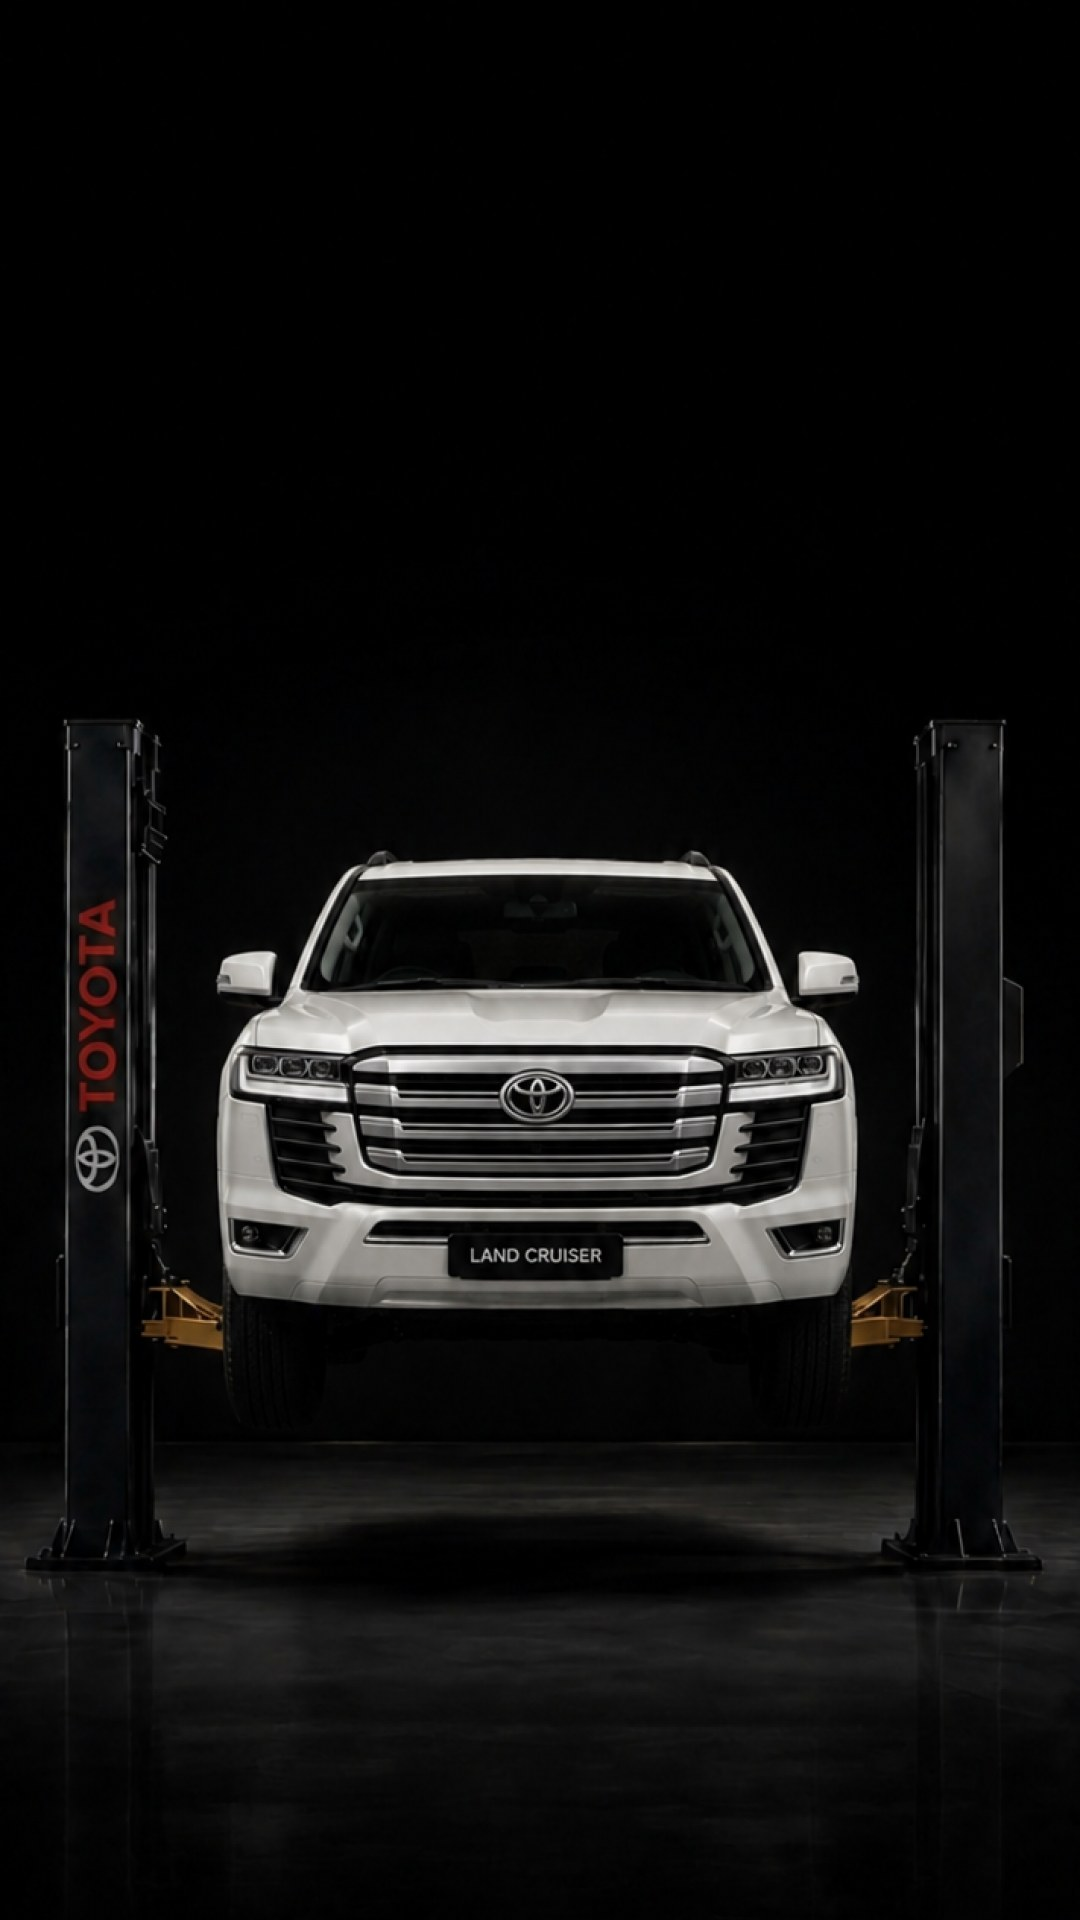
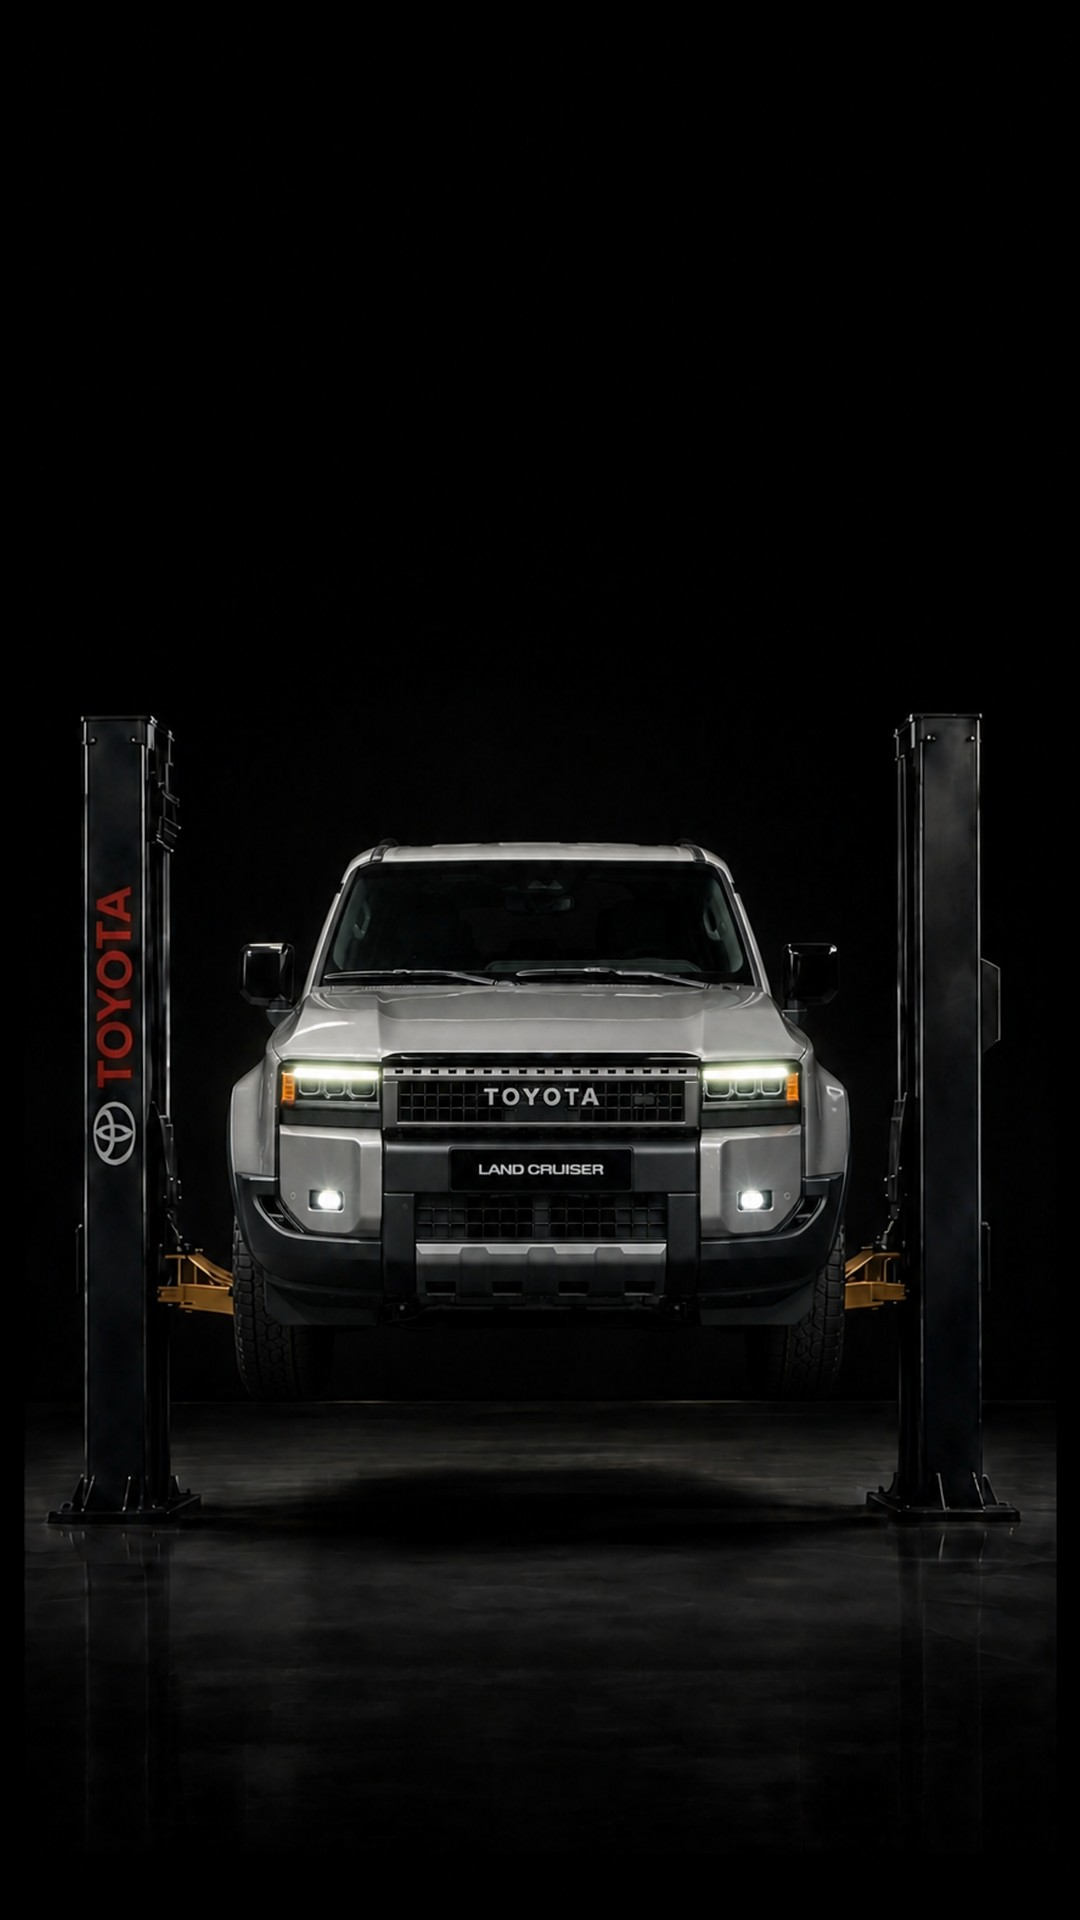
feat: new invitation shots, optional patronymic, exit to the team screen
Certificate shots are taken from mockups 34:2516, 34:2467 and 34:2564: for
Lexus and the Land Cruiser the car stands larger and lower, the oil change got
a new shot with a barista. Plate frames are recomputed for the new shots, the
brandless shot is rebuilt from a fresh Lexus with the badges erased.

The patronymic is no longer required: the first name is enough. On the
invitation a single name stays on one line (34:2612), while the "Ваше имя"
placeholder is split by words as drawn in 34:2566.

In the issuing modal the extra outline around the preview is removed - the
invitation has its own frame inside the shot. The "Диагностика ходовой части"
caption is wrapped manually, and two lines are reserved under the captions: the
pair of cards no longer drifts apart in height.

A click on a messenger takes the guest to the car team screen. The screen
learned to open for an already issued request - it used to require phone
confirmation, which the current funnel does not have.

Changed region(s): [[0.0, 0.375, 0.9472, 0.8438], [0.1222, 0.75, 1.0, 0.875], [0.825, 0.8438, 0.8556, 0.875]]

diff --git a/src/views/ticket/TicketScreen.tsx b/src/views/ticket/TicketScreen.tsx
@@ -27,8 +27,16 @@ type Phase = 'loading' | 'ready' | 'error'
 export function TicketScreen() {
   const router = useRouter()
   const { go } = useStageTransition()
+  // Пригласительные выписывает шаг личных данных, и оттуда гость приходит сюда
+  // уже с готовой заявкой. Старый путь с подтверждением телефона тоже работает:
+  // тогда сертификат оформляется прямо здесь.
   const show = useFunnelGuard(
-    (d) => Boolean(d.applicationId && d.fullName && d.phone && d.phoneVerificationToken),
+    (d) =>
+      Boolean(
+        d.applicationId &&
+          d.fullName &&
+          (d.certificateCode || (d.phone && d.phoneVerificationToken)),
+      ),
     '/personal',
   )
   const { data, sessionId, update, track } = useFunnel()
@@ -40,9 +48,13 @@ export function TicketScreen() {
   const [modalOpen, setModalOpen] = useState(false)
   const assetsReady = useSceneAssets(TICKET_ASSETS)
 
+  // Заявка уже завершена: сертификат оформлять нечего, экран собирается по
+  // данным воронки. Показываем его сразу, без запроса.
+  const completed = Boolean(data.certificateCode)
+
   // идемпотентно создаём сертификат
   useEffect(() => {
-    if (!show || !data.applicationId) return
+    if (!show || !data.applicationId || completed) return
     // стартовое состояние и так 'loading': лишний сброс только плодит рендеры
     let active = true
     completeApplication(data.applicationId, sessionId, data.phoneVerificationToken ?? '')
@@ -66,7 +78,11 @@ export function TicketScreen() {
       active = false
     }
     // eslint-disable-next-line react-hooks/exhaustive-deps
-  }, [show, data.applicationId])
+  }, [show, data.applicationId, completed])
+
+  useEffect(() => {
+    if (show && completed) setPhase('ready')
+  }, [show, completed])
 
   // Данные для персональных сертификатов. Сессию заводим заранее, пока человек
   // рассматривает экран: к моменту открытия модалки картинки уже готовы.
@@ -133,15 +149,15 @@ export function TicketScreen() {
         </div>
       )}
 
-      {phase === 'ready' && result && assetsReady && (
+      {phase === 'ready' && assetsReady && (
         <div className={styles.reveal}>
           <TicketCard
-            fullName={result.application.fullName ?? data.fullName ?? ''}
-            brand={result.application.carBrand ?? data.carBrand ?? ''}
-            model={result.application.carModel ?? data.carModel ?? ''}
-            year={result.application.carYear ?? data.carYear ?? null}
-            plate={result.application.plateNumber ?? data.plateNumber ?? ''}
-            amount={result.certificate.amount}
+            fullName={result?.application.fullName ?? data.fullName ?? ''}
+            brand={result?.application.carBrand ?? data.carBrand ?? ''}
+            model={result?.application.carModel ?? data.carModel ?? ''}
+            year={result?.application.carYear ?? data.carYear ?? null}
+            plate={result?.application.plateNumber ?? data.plateNumber ?? ''}
+            amount={result?.certificate.amount ?? data.certificateAmount ?? 1500}
             onMeet={() => {
               track('outbound_click', { id: 'meet_team' })
               go('/links')

diff --git a/src/views/contact/ContactScreen.tsx b/src/views/contact/ContactScreen.tsx
@@ -11,6 +11,7 @@ import {
 import { useScreenView } from '@/shared/analytics'
 import { useFunnel, useFunnelGuard } from '@/shared/lib/funnel'
 import { useSceneAssets } from '@/shared/lib/useSceneAssets'
+import { useStageTransition } from '@/widgets/curtain-transition'
 import { Button, Checkbox, Loader } from '@/shared/ui'
 import { validateFullName } from '@/lib/validation'
 import { CertificatesModal } from '@/invite-test/ui/CertificatesModal'
@@ -28,6 +29,7 @@ const CONTACT_ASSETS = [
 export function ContactScreen() {
   const show = useFunnelGuard((d) => Boolean(d.applicationId && d.carBrand), '/car-number')
   const { data, sessionId, update, track } = useFunnel()
+  const { go } = useStageTransition()
   useScreenView('personal')
 
   const savedName = (data.fullName ?? '').trim().split(/\s+/)
@@ -58,8 +60,9 @@ export function ContactScreen() {
 
   const submitName = async () => {
     const next: Record<string, string> = {}
-    const name = validateFullName(`${firstName} ${patronymic}`)
-    if (!name) next.fullName = 'Укажите имя и отчество, только буквы'
+    // Отчество необязательно: достаточно имени.
+    const name = validateFullName(`${firstName} ${patronymic}`.trim())
+    if (!name) next.fullName = 'Укажите имя, только буквы'
     if (!consent) next.consent = 'Нужно согласие на обработку персональных данных'
     setErrors(next)
     if (Object.keys(next).length > 0) return
@@ -121,7 +124,7 @@ export function ContactScreen() {
               />
             </label>
             <label className={styles.field}>
-              <span>Отчество</span>
+              <span>Отчество <i>по желанию</i></span>
               <input
                 placeholder="Иванович"
                 maxLength={30}
@@ -191,6 +194,13 @@ export function ContactScreen() {
           carTitle={[data.carBrand, data.carModel].filter(Boolean).join(' ')}
           plate={data.plateNumber}
           amount={data.certificateAmount ?? 1500}
+          // Пригласительные гость забирает в мессенджере, а на сайте идёт
+          // дальше — знакомиться с командой автомобиля. Переход делаем сразу по
+          // клику, чтобы, вернувшись из чата, он попал уже на этот экран.
+          onSent={(channel) => {
+            track('outbound_click', { id: `messenger_${channel}` })
+            go('/certificate')
+          }}
         />
       )}
     </main>

diff --git a/src/widgets/certificate-sheet/layout.ts b/src/widgets/certificate-sheet/layout.ts
@@ -58,7 +58,7 @@ export function certificateFace(kind: CertificateKind, brand: string): Certifica
       photoRaster: 'images/cert/bg-diagnostics-toyota.jpg',
       address: DIAGNOSTICS_ADDRESS,
       // на кадре Land Cruiser вместо номера шильд: рамка ниже и чуть уже
-      plate: { x: 448 / 1080, y: 1236 / 1920, w: 171 / 1080 },
+      plate: { x: 451 / 1080, y: 1148 / 1920, w: 182 / 1080 },
     }
   }
   if (isLexus(brand)) {
@@ -66,7 +66,7 @@ export function certificateFace(kind: CertificateKind, brand: string): Certifica
       photo: '/images/cert/bg-diagnostics-lexus.webp',
       photoRaster: 'images/cert/bg-diagnostics-lexus.jpg',
       address: DIAGNOSTICS_ADDRESS,
-      plate: { x: 439 / 1080, y: 1162 / 1920, w: 197 / 1080 },
+      plate: { x: 440 / 1080, y: 1163 / 1920, w: 195 / 1080 },
     }
   }
   // Кадр без марки: тот же автомобиль на подъёмнике, что и у остальных, но с
@@ -76,7 +76,7 @@ export function certificateFace(kind: CertificateKind, brand: string): Certifica
     photo: '/images/cert/bg-diagnostics-default.webp',
     photoRaster: 'images/cert/bg-diagnostics-default.jpg',
     address: DIAGNOSTICS_ADDRESS,
-    plate: { x: 439 / 1080, y: 1162 / 1920, w: 197 / 1080 },
+    plate: { x: 440 / 1080, y: 1163 / 1920, w: 195 / 1080 },
   }
 }
 
@@ -136,13 +136,14 @@ export function certificateCopy(kind: CertificateKind, amount: number): Certific
 }
 
 /**
- * Имя и отчество ставятся в две строки, как в макете. Короткая подпись
- * («Ваше имя») остаётся одной строкой: в две она выглядит как обрывок.
+ * Имя и отчество ставятся в две строки, как в макете (34:2516). Отчество не
+ * обязательно: одно имя остаётся одной строкой (34:2612), а подпись-заглушка
+ * «Ваше имя» разбивается по словам, как её нарисовали в 34:2566.
  */
 export function splitGuestName(name: string): string[] {
   const words = name.trim().split(/\s+/).filter(Boolean)
-  const whole = words.join(' ')
-  if (words.length < 2 || whole.length <= 13) return [whole || 'Ваше имя']
+  if (words.length === 0) return ['Ваше', 'имя']
+  if (words.length === 1) return [words[0]!]
   return [words[0]!, words.slice(1).join(' ')]
 }
 

diff --git a/src/invite-test/ui/CertificatesModal/CertificatesModal.tsx b/src/invite-test/ui/CertificatesModal/CertificatesModal.tsx
@@ -1,6 +1,6 @@
 'use client'
 
-import { useEffect, useState } from 'react'
+import { useEffect, useState, type ReactNode } from 'react'
 
 import { CertificateSheet, CertificateViewer, type CertificateKind } from '@/widgets/certificate-sheet'
 
@@ -33,9 +33,24 @@ interface CertificatesModalProps {
   onSent?: (channel: Channel) => void
 }
 
-const CARDS: { kind: CertificateKind; label: string }[] = [
-  { kind: 'diagnostics', label: 'Диагностика ходовой части' },
-  { kind: 'gift', label: 'Замена масла' },
+/**
+ * Подписи под превью. Перенос проставлен вручную: у диагностики строка длиннее
+ * карточки, и автоперенос ронял «части» третьей строкой — от этого пара
+ * пригласительных вставала на разной высоте.
+ */
+const CARDS: { kind: CertificateKind; label: ReactNode; title: string }[] = [
+  {
+    kind: 'diagnostics',
+    label: (
+      <>
+        Диагностика
+        <br />
+        ходовой части
+      </>
+    ),
+    title: 'Диагностика ходовой части',
+  },
+  { kind: 'gift', label: 'Замена масла', title: 'Замена масла' },
 ]
 
 export function CertificatesModal({
@@ -117,7 +132,7 @@ export function CertificatesModal({
               className={styles.previewButton}
               key={card.kind}
               onClick={() => setExpanded(card.kind)}
-              aria-label={`Открыть пригласительный: ${card.label}`}
+              aria-label={`Открыть пригласительный: ${card.title}`}
             >
               <span className={styles.previewFrame}>
                 <CertificateSheet

diff --git a/src/lib/validation.ts b/src/lib/validation.ts
@@ -65,17 +65,17 @@ export function validateEmail(raw: unknown): string | null {
 const NAME_WORD = /^[А-ЯЁA-Z][а-яёa-z]*(?:[-'][А-ЯЁA-Zа-яёa-z][а-яёa-z]*)*$/i
 
 /**
- * Имя и отчество. Минимум два слова по 2 буквы, каждое слово только из букв,
- * дефисов и апострофов. Отсекает вставленный скрипт, цифры и набор из одной
- * буквы вроде «аааааа».
+ * Имя, отчество по желанию. Слова по 2 буквы, каждое только из букв, дефисов и
+ * апострофов. Отсекает вставленный скрипт, цифры и набор из одной буквы вроде
+ * «аааааа». Отчество необязательно: одного имени достаточно.
  */
 export function validateFullName(raw: unknown): string | null {
   if (typeof raw !== 'string') return null
   const name = raw.trim().replace(/\s+/g, ' ')
-  if (name.length < 5 || name.length > 60) return null
+  if (name.length < 2 || name.length > 60) return null
 
   const words = name.split(' ')
-  if (words.length < 2 || words.length > 4) return null
+  if (words.length > 4) return null
   for (const word of words) {
     if (word.length < 2 || word.length > 25) return null
     if (!NAME_WORD.test(word)) return null

diff --git a/src/invite-test/ui/CertificatesModal/CertificatesModal.module.scss b/src/invite-test/ui/CertificatesModal/CertificatesModal.module.scss
@@ -91,6 +91,7 @@
 
 .cards {
   display: flex;
+  align-items: flex-start;
   justify-content: center;
   gap: 10px;
   margin-top: 16px;
@@ -112,23 +113,28 @@
   cursor: zoom-in;
 }
 
-// Превью — тот же CertificateSheet, ужатый по ширине карточки.
+// Превью — тот же CertificateSheet, ужатый по ширине карточки. Своей рамки у
+// него нет: у пригласительного она уже нарисована внутри кадра, и вторая
+// обводка вокруг выглядела как лишняя коробка.
 .previewFrame {
   display: block;
   container-type: inline-size;
   width: 100%;
   aspect-ratio: 360 / 640;
   overflow: hidden;
-  border: 1px solid rgba(228, 204, 174, 0.62);
   border-radius: 8px;
   background: #050403;
 }
 
+// Высота под две строки зарезервирована всегда: иначе однострочная подпись
+// поднимала бы свою карточку выше соседней.
 .previewLabel {
   display: block;
+  min-height: 2.4em;
   margin-top: 7px;
   // Подпись не должна прилипать к разделителю «отправить в мессенджер».
   margin-bottom: 6px;
+  line-height: 1.2;
 }
 
 .zoom {

diff --git a/tests/validation.test.ts b/tests/validation.test.ts
@@ -59,9 +59,14 @@ describe('validateFullName', () => {
     expect(validateFullName('Иван Александрович Петров')).toBe('Иван Александрович Петров')
   })
 
-  it('требует минимум два слова', () => {
-    expect(validateFullName('Иван')).toBeNull()
+  it('принимает имя без отчества', () => {
+    expect(validateFullName('Иван')).toBe('Иван')
+    expect(validateFullName('  Анна-Мария  ')).toBe('Анна-Мария')
+  })
+
+  it('требует хотя бы две буквы', () => {
     expect(validateFullName('И')).toBeNull()
+    expect(validateFullName('')).toBeNull()
   })
 
   it('отклоняет цифры, разметку и мусор', () => {

diff --git a/src/views/contact/ContactScreen.module.scss b/src/views/contact/ContactScreen.module.scss
@@ -104,6 +104,14 @@
     line-height: 1;
     letter-spacing: 0.6px;
     text-transform: uppercase;
+
+    // «по желанию» у отчества: та же строка, но заметно тише подписи поля.
+    i {
+      font-size: 10px;
+      font-style: normal;
+      letter-spacing: 0.4px;
+      color: rgba(255, 255, 255, 0.45);
+    }
   }
 
   input {
